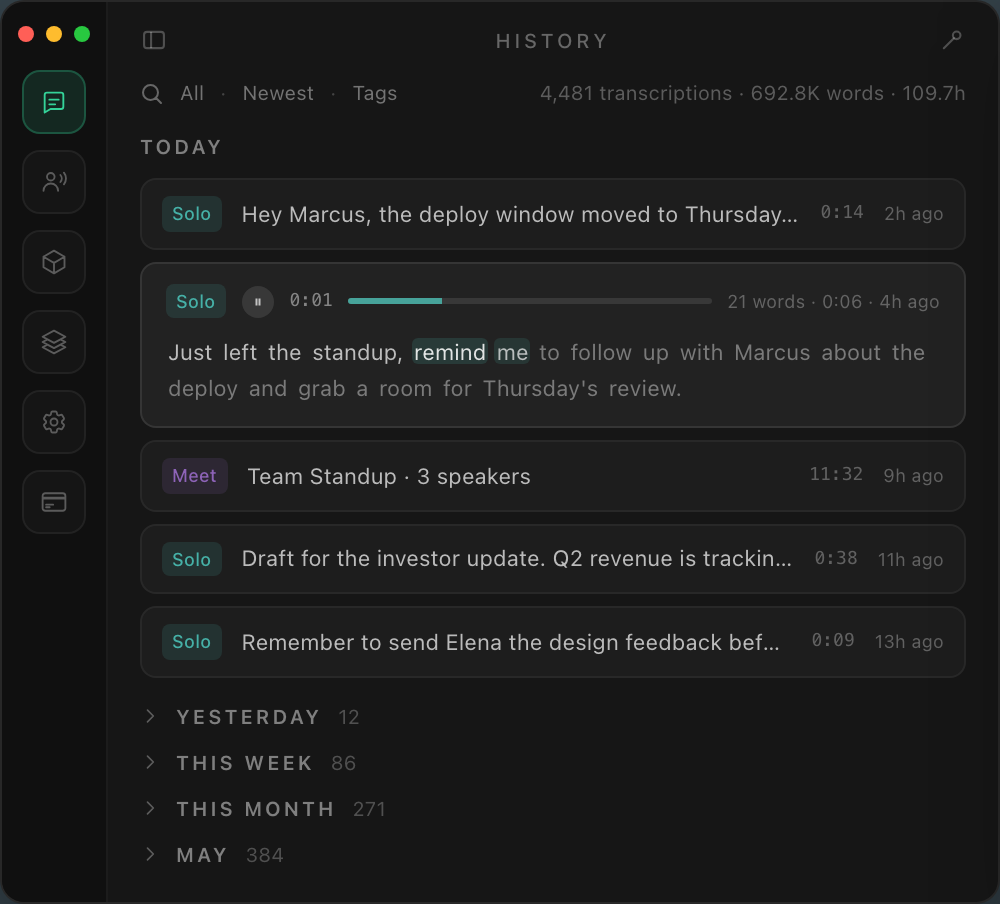
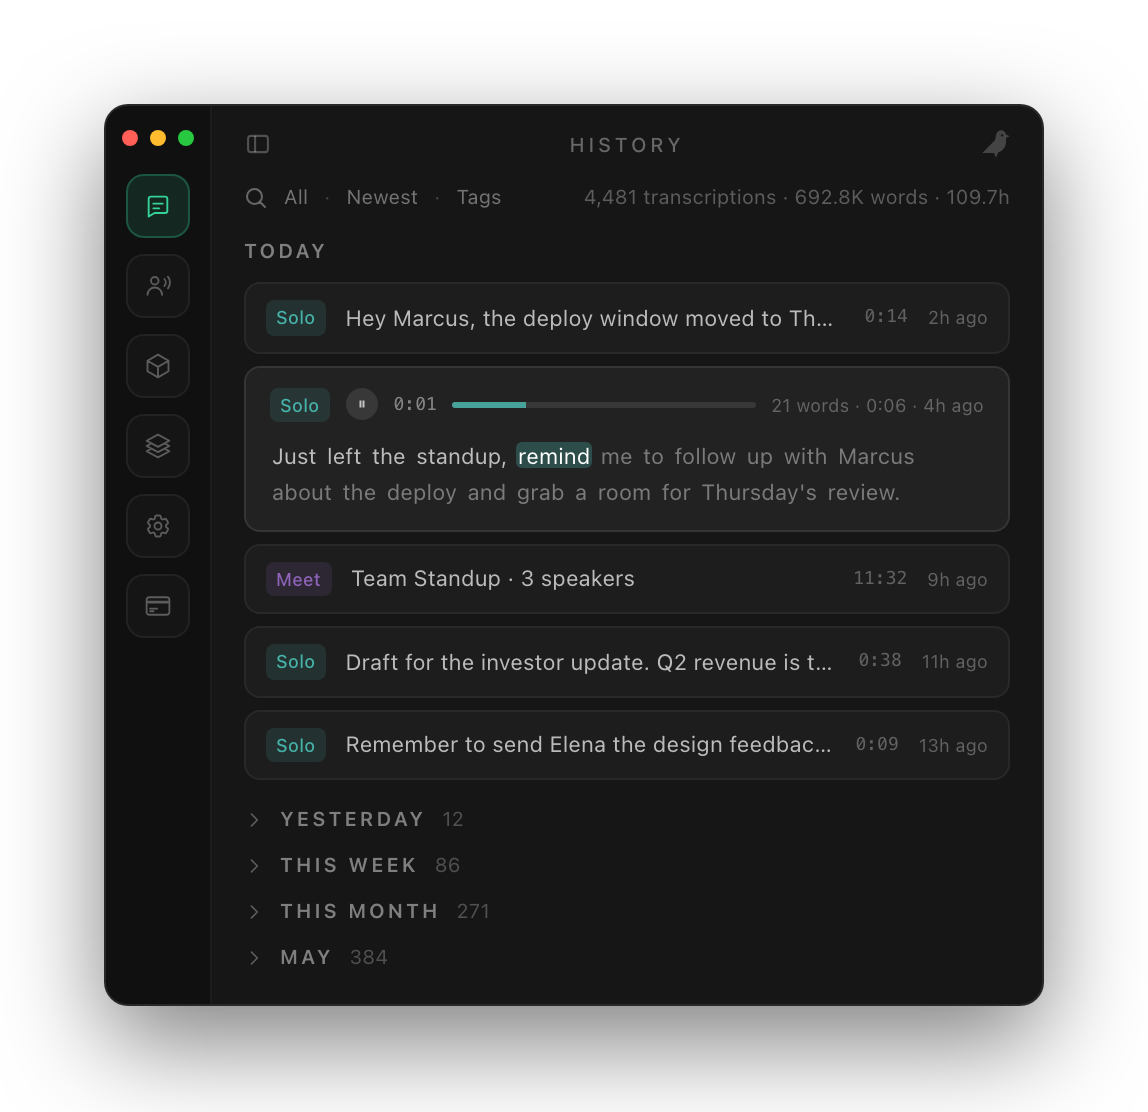
docs: README polish — brand bird in shots, tighter hero, rounded button
- Regenerate history/speakers shots: brand bird in the window's top-right
  (was a stray magnifier), transparent padding + soft shadow, content-hugging
  so captions sit right under the content
- Tighten the wordmark→tagline gap: merge into one centered block and crop
  the wordmark SVGs' baked-in bottom padding
- Round the download button (shields flat, title case)
- "A closer look" → "Inside the app"

diff --git a/README.md b/README.md
@@ -5,15 +5,13 @@
       <img src="https://raw.githubusercontent.com/selcamx/chirp/main/.github/wordmark-light.svg" width="200" alt="Chirp" />
     </picture>
   </a>
-</p>
-
-<p align="center">
+  <br/>
   On-device voice dictation and meeting transcription for macOS.
 </p>
 
 <p align="center">
   <a href="https://chirpvoice.com/#download">
-    <img src="https://img.shields.io/badge/Download_for_macOS-0B1F1D?style=for-the-badge&logo=apple&logoColor=white" alt="Download Chirp for macOS" height="34" />
+    <img src="https://img.shields.io/badge/Download%20for%20macOS-0B1F1D?style=flat&logo=apple&logoColor=white" alt="Download Chirp for macOS" height="30" />
   </a>
 </p>
 
@@ -44,7 +42,7 @@
 
 Chirp is a native macOS app for voice dictation and meeting transcription. It lives in your MacBook's notch and stays out of the way until you need it. Speech is transcribed on-device — your audio and text never leave your Mac — and it's a one-time purchase, with no subscription and no account.
 
-## A closer look
+## Inside the app
 
 <table>
   <tr>
